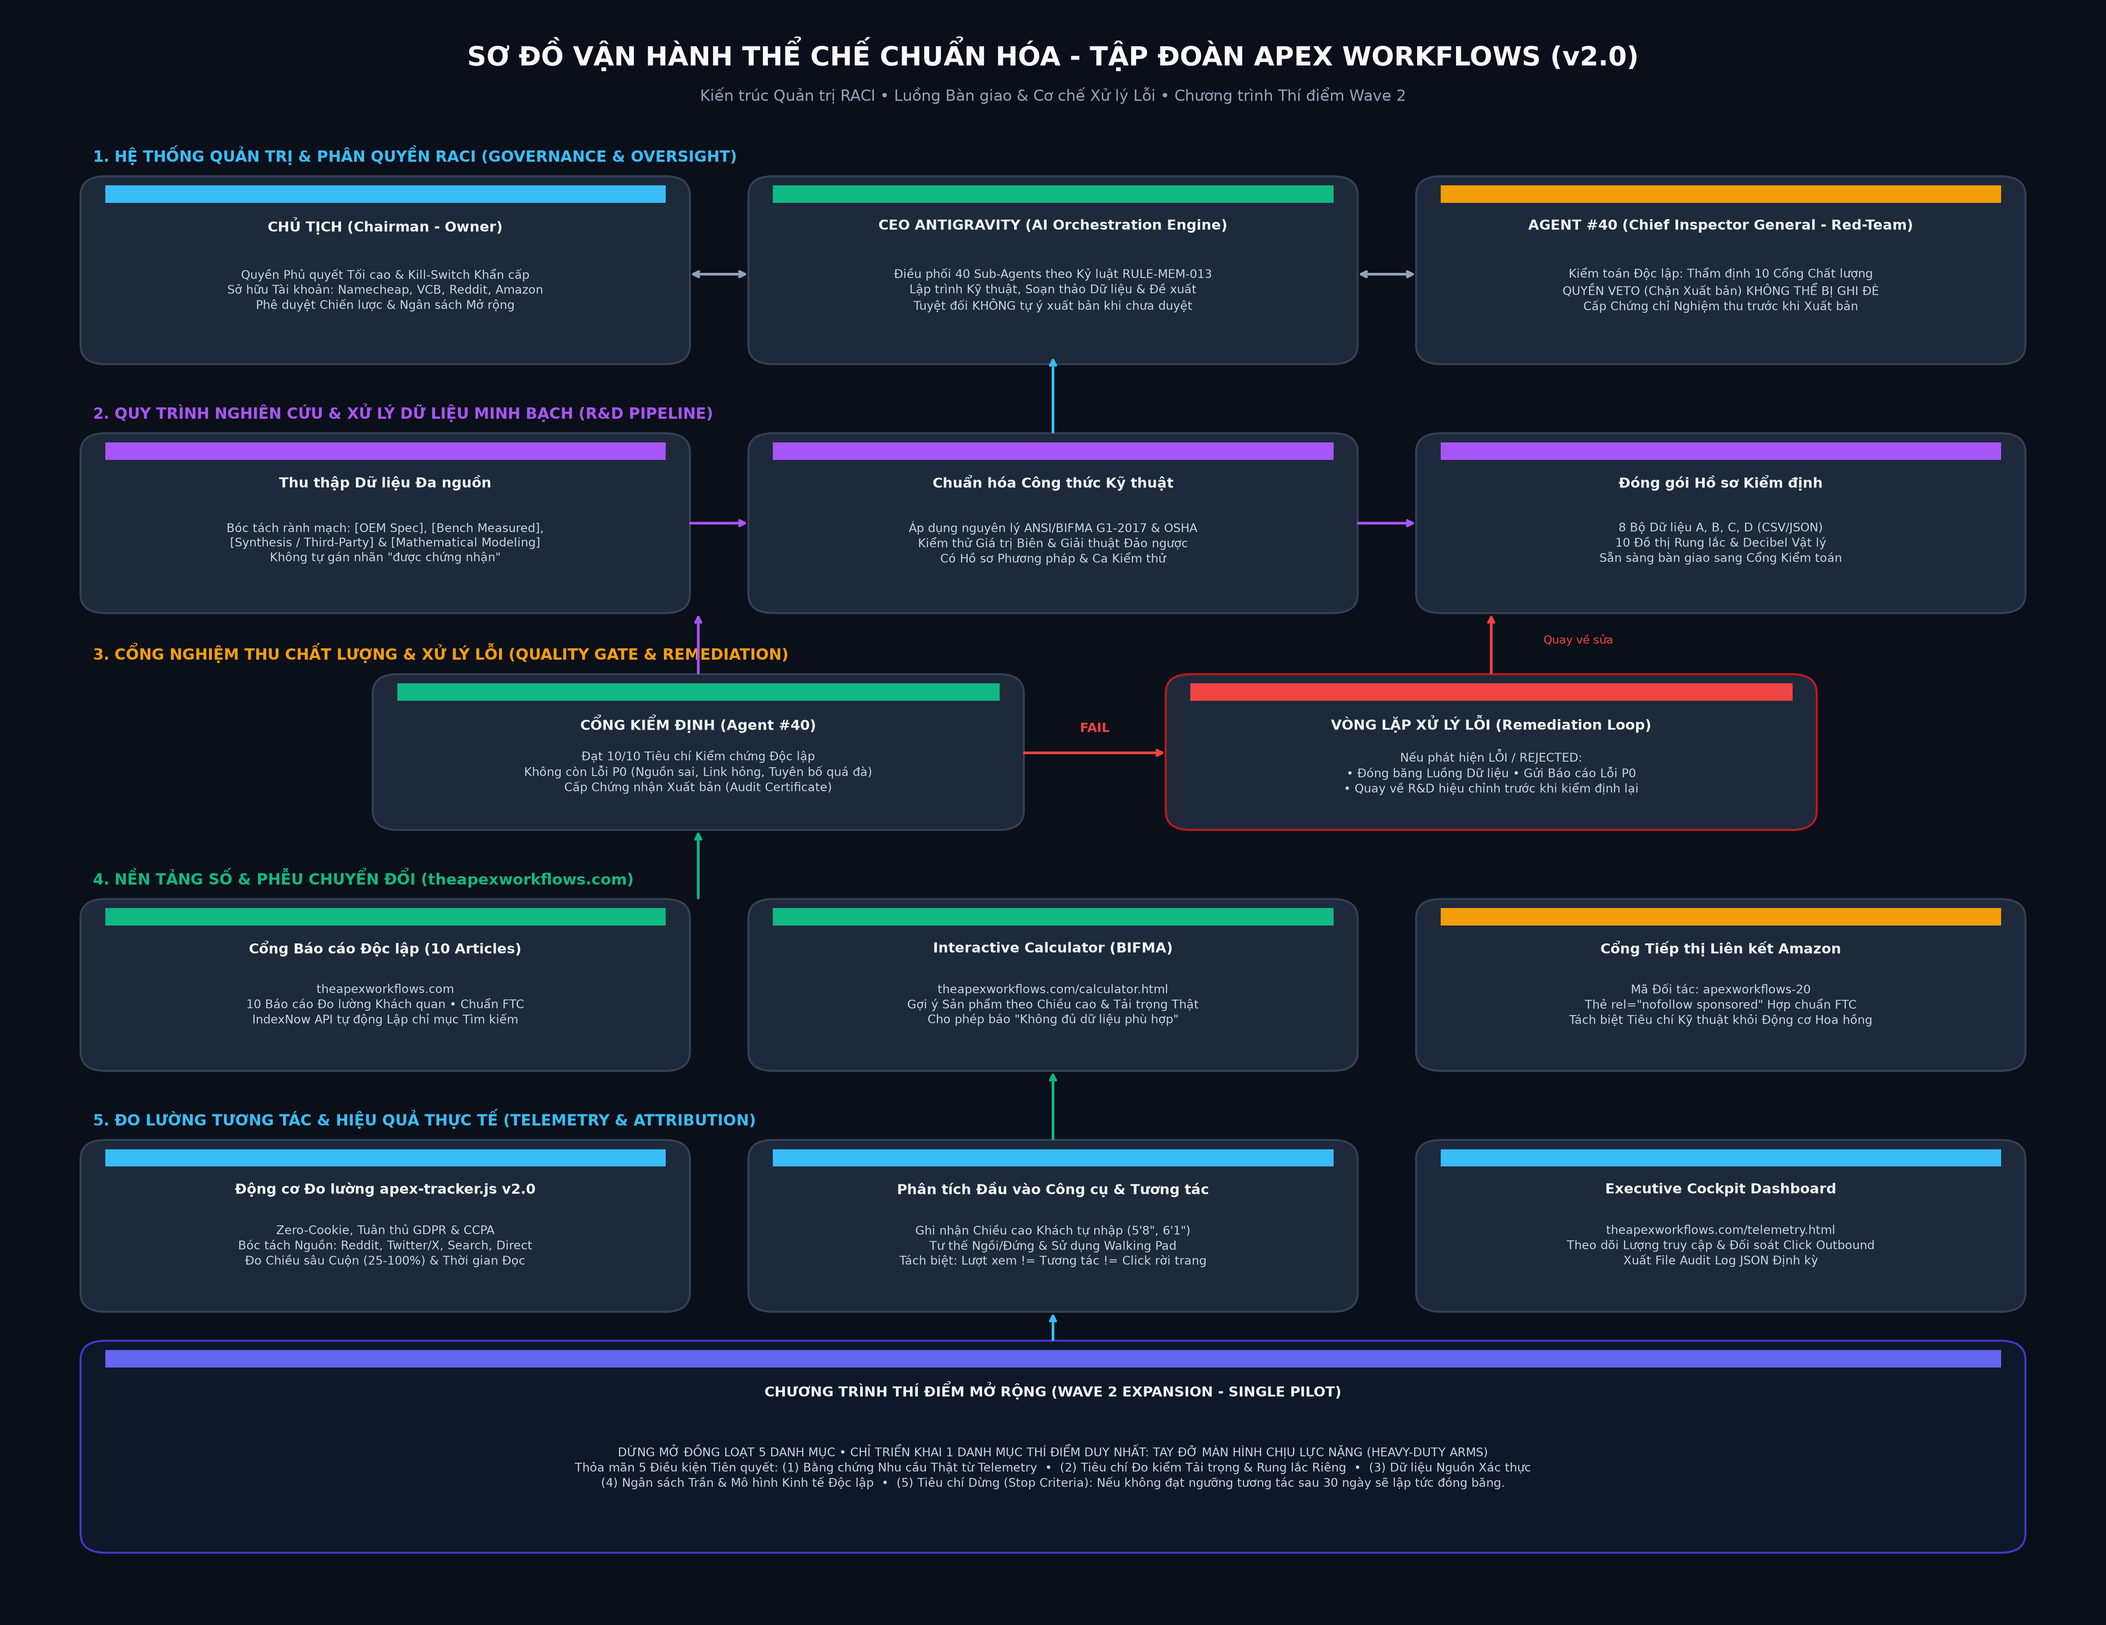
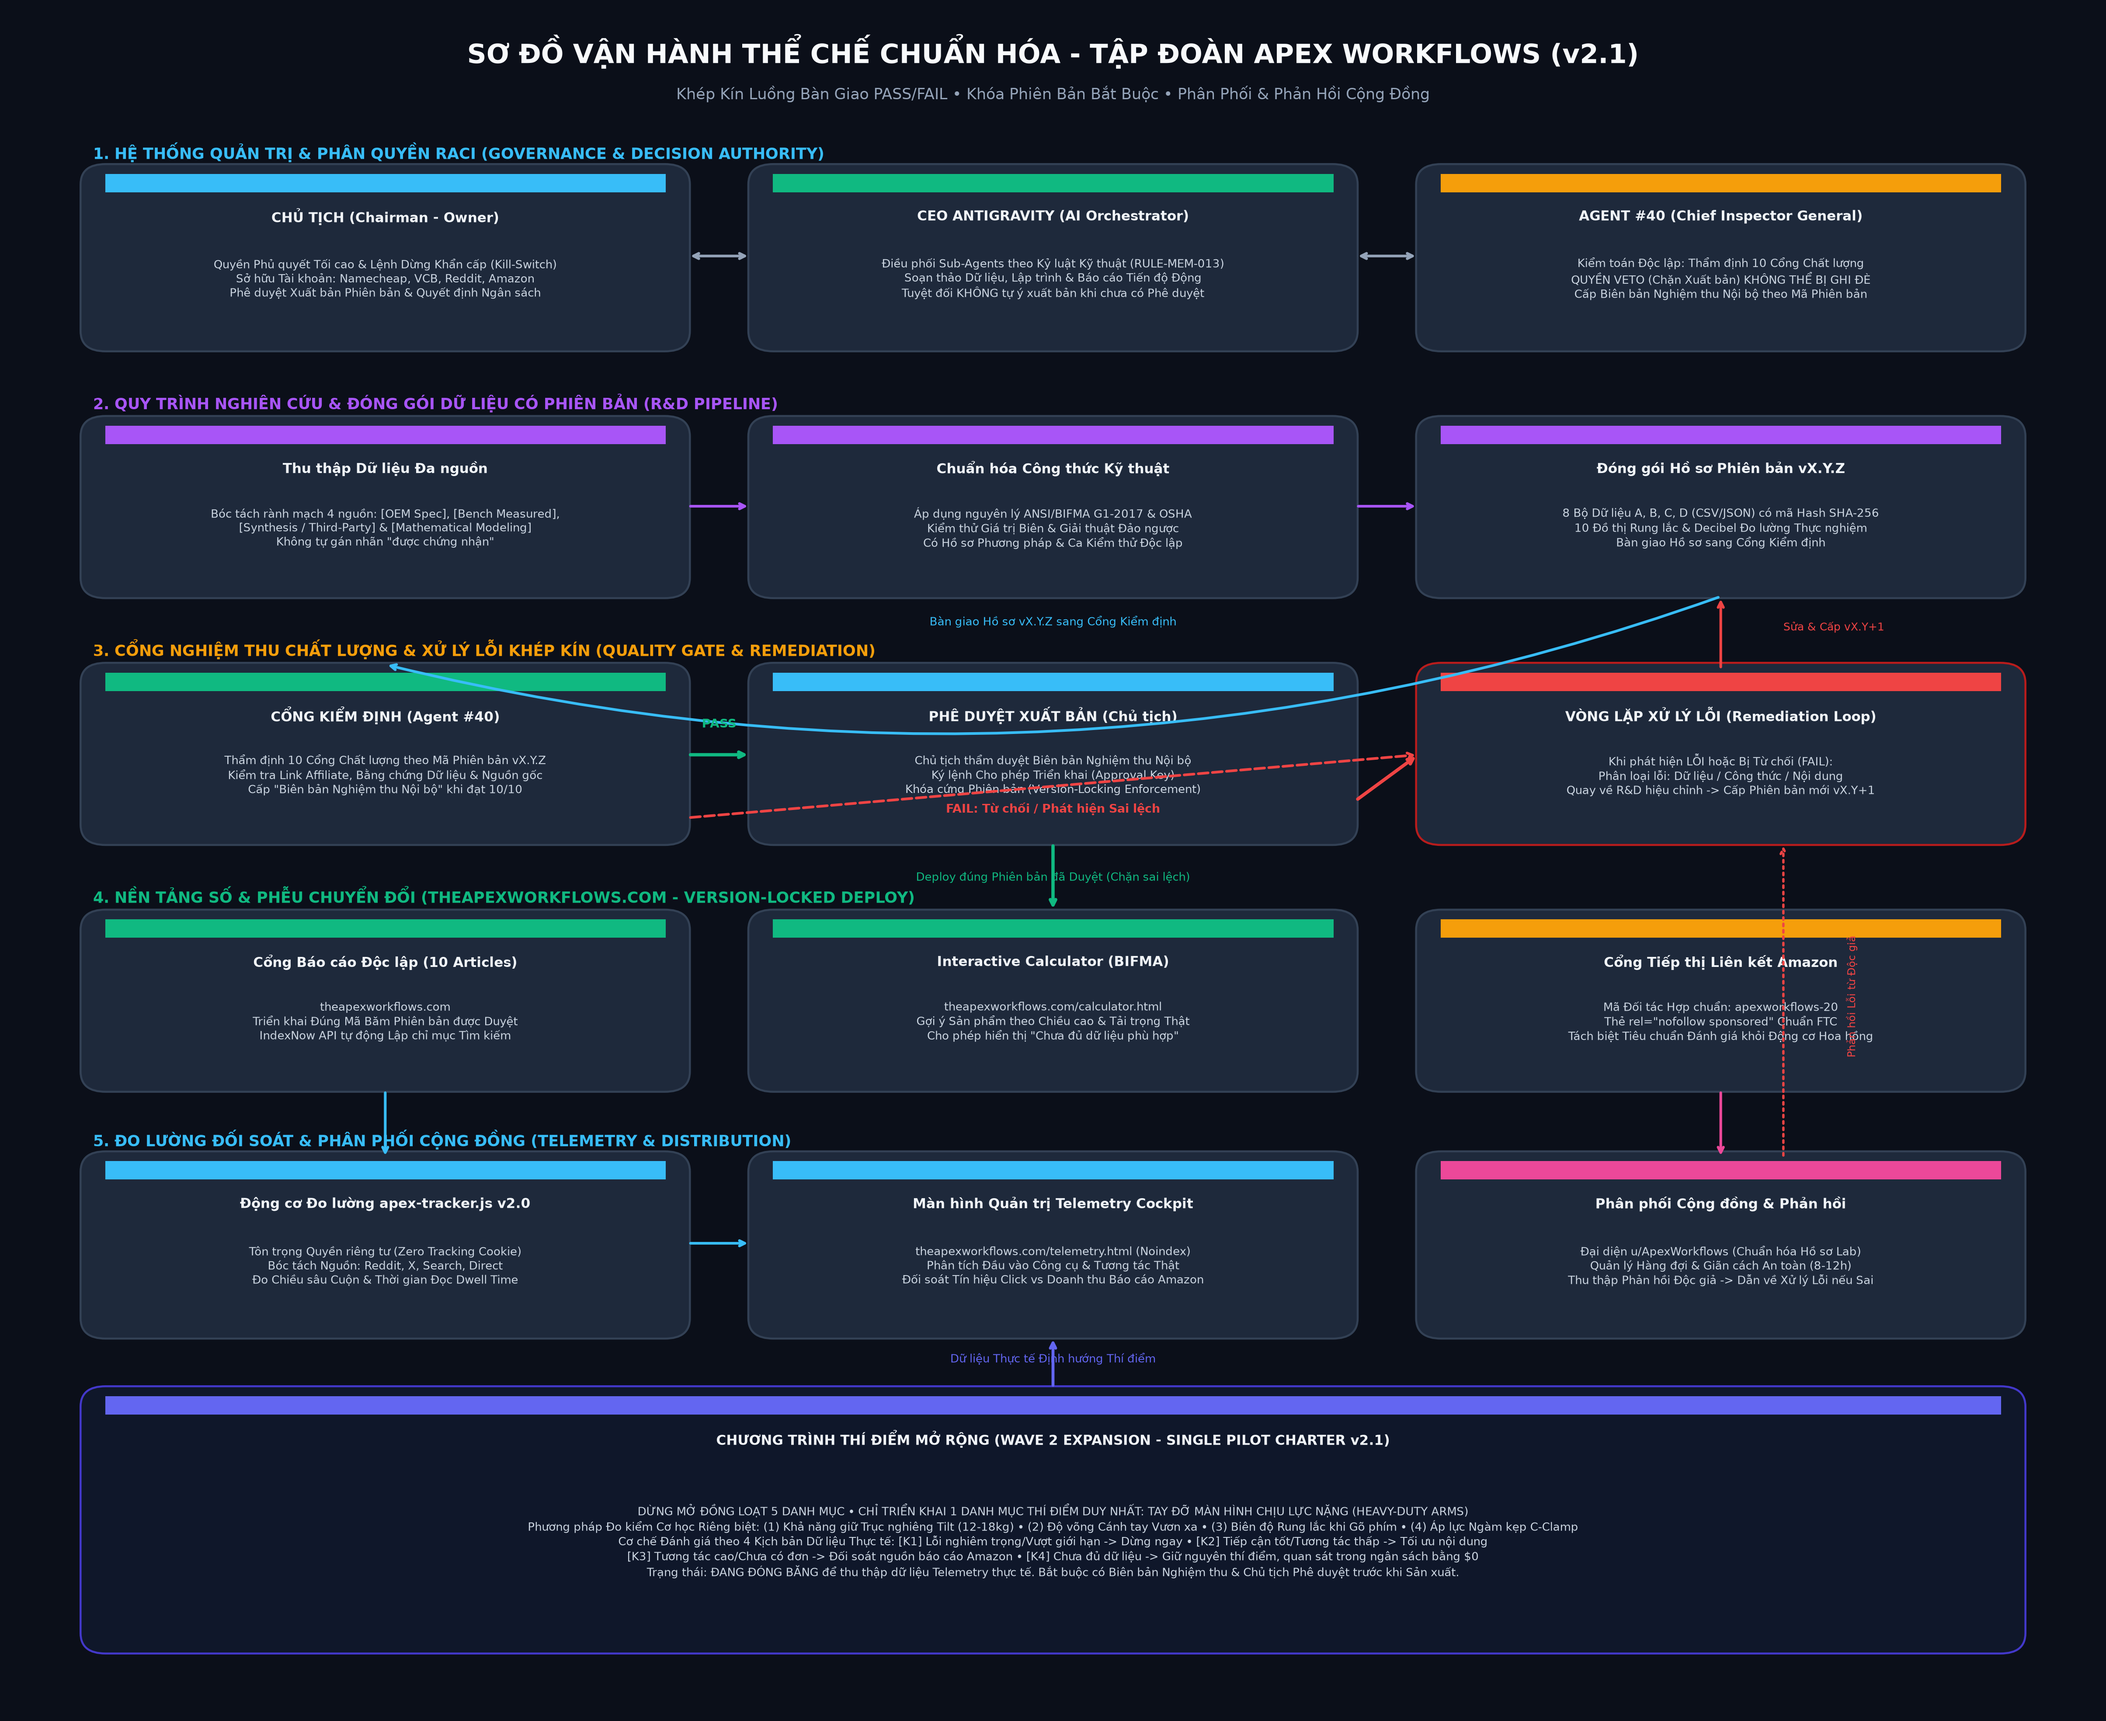
docs(governance): release operational diagram v2.1 with closed PASS/FAIL loops and version locking

diff --git a/so_do_van_hanh.html b/so_do_van_hanh.html
@@ -3,7 +3,7 @@
 <head>
     <meta charset="UTF-8">
     <meta name="viewport" content="width=device-width, initial-scale=1.0">
-    <title>Sơ đồ Vận hành Thể chế v2.0 | Tập đoàn Apex Workflows</title>
+    <title>Sơ đồ Vận hành Thể chế v2.1 | Tập đoàn Apex Workflows</title>
     <style>
         body {
             margin: 0;
@@ -94,7 +94,7 @@
         }
         .summary-grid {
             display: grid;
-            grid-template-columns: repeat(auto-fit, minmax(300px, 1fr));
+            grid-template-columns: repeat(auto-fit, minmax(320px, 1fr));
             gap: 15px;
             font-size: 13.5px;
             line-height: 1.6;
@@ -108,32 +108,36 @@
 <body>
     <div class="header">
         <div>
-            <h1>SƠ ĐỒ VẬN HÀNH THỂ CHẾ APEX WORKFLOWS <span class="badge-v2">BẢN CHUẨN HÓA V2.0</span></h1>
-            <p style="color: #94a3b8; margin: 5px 0 0 0; font-size: 13px;">Đã tích hợp Phân quyền RACI, Quyền VETO Kiểm toán &amp; Chương trình Thí điểm Mở rộng Wave 2</p>
+            <h1>SƠ ĐỒ VẬN HÀNH THỂ CHẾ APEX WORKFLOWS <span class="badge-v2">BẢN CHUẨN HÓA V2.1</span></h1>
+            <p style="color: #94a3b8; margin: 5px 0 0 0; font-size: 13px;">Khép kín luồng PASS/FAIL • Khóa phiên bản bắt buộc • Khôi phục khối Phân phối &amp; Phản hồi</p>
         </div>
-        <a href="assets/images/so_do_van_hanh_tap_doan.png" download="So_Do_Van_Hanh_Apex_Workflows_v2.png" class="btn-download">
-            ⬇ Tải Ảnh Sơ Đồ v2.0 (Full HD PNG)
+        <a href="assets/images/so_do_van_hanh_tap_doan.png" download="So_Do_Van_Hanh_Apex_Workflows_v2.1.png" class="btn-download">
+            ⬇ Tải Ảnh Sơ Đồ v2.1 (Full HD PNG)
         </a>
     </div>
 
     <div class="img-container">
-        <img src="assets/images/so_do_van_hanh_tap_doan.png" alt="Sơ đồ Vận hành Thể chế v2.0 Apex Workflows">
+        <img src="assets/images/so_do_van_hanh_tap_doan.png" alt="Sơ đồ Vận hành Thể chế v2.1 Apex Workflows">
     </div>
 
     <div class="summary-box">
-        <h3>Các Điểm Nâng Cấp Cốt Tử Trên Bản Sơ Đồ v2.0:</h3>
+        <h3>Các Điểm Hoàn Thiện Trọng Yếu Theo Báo Cáo Đánh Giá Ngày 31/10/2026:</h3>
         <div class="summary-grid">
             <div class="summary-item">
-                <strong>1. Phân định Rõ Chủ quyền &amp; Trách nhiệm (RACI):</strong> Chủ tịch sở hữu tối cao và quyền Kill-Switch; AI chỉ chuẩn bị bản nháp và lập trình kỹ thuật; Agent #40 giữ quyền VETO độc lập.
+                <strong>1. Khép kín Luồng Bàn Giao PASS &amp; FAIL:</strong>
+                Hồ sơ vX.Y được bàn giao sang Cổng Kiểm định. Nhánh PASS cấp "Biên bản Nghiệm thu Nội bộ" trình Chủ tịch duyệt; nhánh FAIL phân loại lỗi quay về R&amp;D hiệu chỉnh và cấp phiên bản mới vX.Y+1.
             </div>
             <div class="summary-item">
-                <strong>2. Dán nhãn Nguồn Dữ liệu Minh bạch:</strong> Tách biệt [OEM Spec], [Bench Measured], [Synthesis] và [Mathematical Modeling]; tuyệt đối không tự xưng được BIFMA/OSHA cấp chứng nhận.
+                <strong>2. Khóa Phiên Bản Bắt Buộc (Version-Locking):</strong>
+                Chặn hoàn toàn tình huống duyệt bản A nhưng triển khai bản B. Hệ thống đối chiếu mã băm SHA-256 đã duyệt trước khi deploy.
             </div>
             <div class="summary-item">
-                <strong>3. Thêm Cổng Kiểm định &amp; Luồng Sửa lỗi:</strong> Luồng dữ liệu không đi thẳng mà phải qua Cổng thẩm định 10 Gate; nếu Fail lập tức quay lại R&amp;D hiệu chỉnh.
+                <strong>3. Khôi phục Khối Phân phối &amp; Phản hồi Cộng đồng:</strong>
+                Đưa khối Phân phối mạng xã hội trở lại sơ đồ; thiết lập đường phản hồi dẫn các phản ánh dữ liệu sai từ độc giả quay thẳng vào Vòng lặp Xử lý Lỗi (Remediation).
             </div>
             <div class="summary-item">
-                <strong>4. Tái cấu trúc Wave 2 thành Thí điểm Duy nhất (Single Pilot):</strong> Dừng mở đồng loạt 5 danh mục; chỉ thí điểm Tay đỡ Màn hình Nặng (Heavy-Duty Arms) khi thỏa mãn 5 điều kiện tiên quyết.
+                <strong>4. Cơ chế Đánh giá Wave 2 theo 4 Kịch bản Dữ liệu:</strong>
+                Loại bỏ mốc cứng 30 ngày. Phân định rõ 4 kịch bản: Lỗi nghiêm trọng (Dừng ngay) &bull; Tương tác thấp (Tối ưu) &bull; Chưa có đơn (Đối soát nguồn) &bull; Thiếu dữ liệu (Giữ nguyên quan sát).
             </div>
         </div>
     </div>
